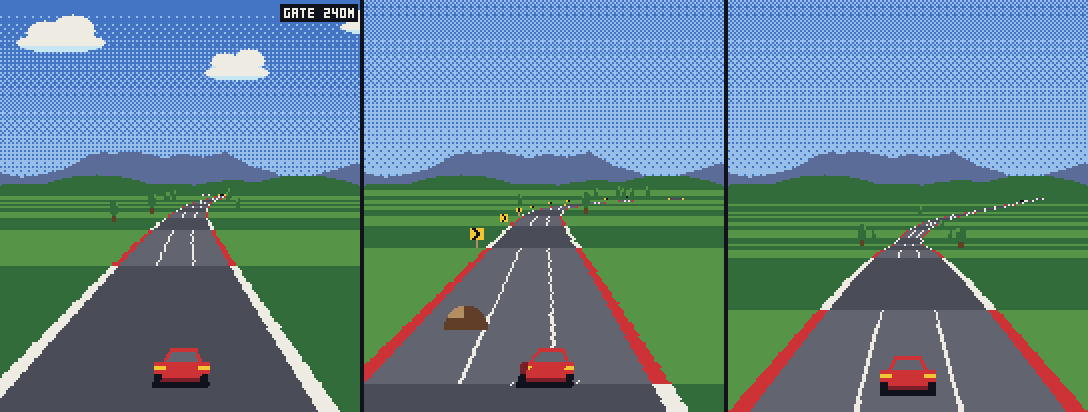
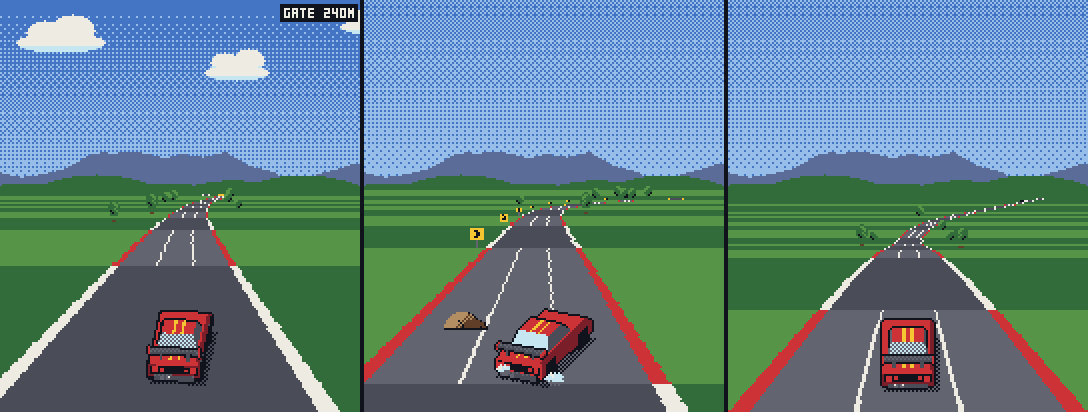
Faster blit, docs, site images
Canvas::blit clips its columns once and writes each row straight into
the buffer, winning back the ~15 us a frame the larger player car cost.
DESIGN §5 and NOTES describe the sprites, their cost and the golden
frames that moved; site images regenerated (favicon crop centred).

Claude-Session: https://claude.ai/code/session_01Q6RTwv6JKTJokLqpD8xMa5

diff --git a/crates/racer-godot/src/raster.rs b/crates/racer-godot/src/raster.rs
@@ -220,13 +220,21 @@ impl Canvas {
     /// hides it: a crest). Mirrored left-to-right when `flip`.
     pub fn blit(&mut self, s: &Sprite, x: i32, y: i32, y_max: i32, flip: bool) {
         let y_end = (y + s.h).min(y_max).min(self.h);
+        // Clip the columns once; each row is then a straight copy of its
+        // painted pixels.
+        let (sx0, sx1) = ((-x).max(0), (self.w - x).min(s.w));
+        if sx0 >= sx1 {
+            return;
+        }
         for yy in y.max(0)..y_end {
             let row = (yy - y) as usize * s.w as usize;
-            for sx in 0..s.w {
-                let src = if flip { s.w - 1 - sx } else { sx };
-                let c = s.px[row + src as usize];
+            let src = &s.px[row..row + s.w as usize];
+            let dst = (yy * self.w + x) as isize * 4;
+            for sx in sx0..sx1 {
+                let c = src[if flip { s.w - 1 - sx } else { sx } as usize];
                 if c != Sprite::CLEAR {
-                    self.put(x + sx, yy, c);
+                    let i = (dst + sx as isize * 4) as usize;
+                    self.px[i..i + 4].copy_from_slice(&self.pal[(c as usize).min(15)]);
                 }
             }
         }

diff --git a/tools/build_site.py b/tools/build_site.py
@@ -258,6 +258,8 @@ def favicon(frames):
     """The car, centred on ink in a 32x32 tile, scaled 2x."""
     f = frames["sweep_mid_curve"]
     x, y, w, h = car_box(f)
+    # A car wider or taller than the tile loses equal margins either side.
+    x, y = x + max(w - 30, 0) // 2, y + max(h - 30, 0) // 2
     w, h = min(w, 30), min(h, 30)
     tile = Img(32, 32, INK)
     tile.paste(f.crop(x, y, w, h), (32 - w) // 2, (32 - h) // 2)

diff --git a/NOTES.md b/NOTES.md
@@ -486,3 +486,51 @@ order, so every run (and DEMO) shows all five, meadow first.
   `.import` files deleted. Not tried on the Pixel: how the night and the
   desert read on the phone's panel, and whether the alpine peaks' shaded
   faces look busy at that size, are the things to look at.
+
+## Procedural sprites (2026-10-18)
+
+DESIGN §5 (Sprites). The placeholder art is replaced; every sprite is still
+drawn in code at startup, nothing is scaled or rotated at draw time.
+
+- **Nothing simulated moved.** Presentation only: no `SIM_EPOCH` bump; the
+  determinism digest is still `0x4a5c1bcc8fc9fdfb` (200 runs, 432,547
+  events, 0 divergences). A traffic car's look is a hash of its start, lane
+  and speed; its footprint is the sim's, as are every post's and rock's.
+- **Solid models** (`sprites/solid.rs`): convex faces, orthographic, a
+  z-buffer, pixel centres sampled; lit from the upper left onto short
+  palette ramps with a checkerboard between steps; an ink outline, ink
+  creases where one part stands in front of another, an ink-checkerboard
+  ground shadow. The player's car is drawn at 14 px/m from 0.45 rad
+  (gentler than the camera's ~58° at the car, so its tail shows); traffic
+  and the ghost at each scale step from `pitch_at(scale)`, the camera's
+  true angle at that depth capped at 0.55 rad. Traffic's three smallest
+  steps (2, 3, 5 px wide) are hand-drawn maps per kind: a renderer's
+  sampling loses the tail lamps at that size.
+- **Frames**: 15 poses (straight, lean 1/2 each way, drift L/R, 8 spin
+  turns) × lamps off/lit; `car_frame` leans one step below full lock and
+  two at it, and turns a spin through 1.5 turns, fast then slowing, the
+  other way when sliding left. Smoke (4 puff sizes) and the boost flame (2
+  flickers) are placed at each frame's tyre and pipe points.
+- **Ghost**: the player's car in ICE/WATER/WHITE, body checkerboarded,
+  dark parts and a white outline solid; past ~15 m (scale under 3 px/m) a
+  7×5 marker floats over it, only while some of it shows over the road.
+  Owner feedback was that it went faint past ~15 m; check on the Pixel.
+- **Cost**, this machine (release): `Art::new` 7.4 ms once at startup
+  (`art_build_cost`; 60 ms in a debug build, so tests share one
+  `Art::shared`), 138,523 bytes of sprites. `raster_bench` before → after
+  (µs per 180×360 frame): MEADOW 232 → 228–236, COAST 223 → 221–223,
+  ALPINE 245 → 241–266 (noisy), DESERT 83 → 84, NIGHT 105 → 105. The larger
+  player car first cost ~15 µs a frame; `Canvas::blit` now clips columns
+  once and writes rows directly, which won it back.
+- **Golden frames.** Every render golden moved (`sweep_mid_curve`,
+  `hairpin_entry`, `crest_climbing`, `crest_over`, `hazards`,
+  `drift_corner_signed`, `ghost_ahead`, `biome_coast`, `biome_alpine`,
+  `biome_desert`, `biome_night`); added `ghost_10m`, `ghost_20m`,
+  `ghost_40m`, `gate_ahead`, `finish_ahead`. Screens `title`,
+  `racing_start` and `paused` moved (they show the road); no other screen
+  did. `dump_sprite_sheet` writes every sprite to
+  `target/frames/sprite_sheet.ppm`. Site images regenerated; the favicon
+  crop is centred on the (now wider) car.
+- **Desktop check.** Headless import and a 300-frame run start clean (the
+  known exit-time leak aside); `git diff project.godot` empty, stray
+  `.import` files deleted. Not tried on a phone.

diff --git a/design/DESIGN.md b/design/DESIGN.md
@@ -271,6 +271,23 @@ Decided, not built:
   the aspect: Salt Line's "fix the short side" rule, rotated.
 - **Art rules**: Salt Line's — a 16-colour palette, 4× source art, nearest
   filtering everywhere.
+- **Sprites** *(built, October 2026)*: all drawn in code at startup
+  (`sprites/`), deterministic, nothing scaled or rotated at draw time.
+  Cars are small solid models (`sprites/solid.rs`) drawn once per frame
+  pose and scale step: flat faces lit from the upper left on short
+  palette ramps, a checkerboard between steps (dithering only, no
+  blends), an ink outline and an ink-checkerboard ground shadow. The
+  player's car (an original red hatch-coupe) has straight, two lean steps
+  each way, drift left/right and eight spin frames, each with brake lamps
+  off and lit; tyre smoke and the boost flame are separate small sprites
+  at points each frame records. Traffic is three kinds (hatchback, box
+  van, pickup) in blue, yellow and white, drawn per step from the angle
+  the camera sees that depth at; the three smallest steps are hand-drawn
+  pixel maps. Cars use only the fixed indices. Roadside things are
+  shapes in metres sampled per step, edged on the shadow side once a step
+  can carry it. The ghost is the player's car, pale, its body
+  checkerboarded inside a solid outline, with a marker over it past
+  ~15 m.
 - **Controls**: Left/Right steer, Down brakes, Drift held. Touch and
   keys/pad equally first-class.
 - **Devices**: Android export with Salt Line's stripped templates and the
